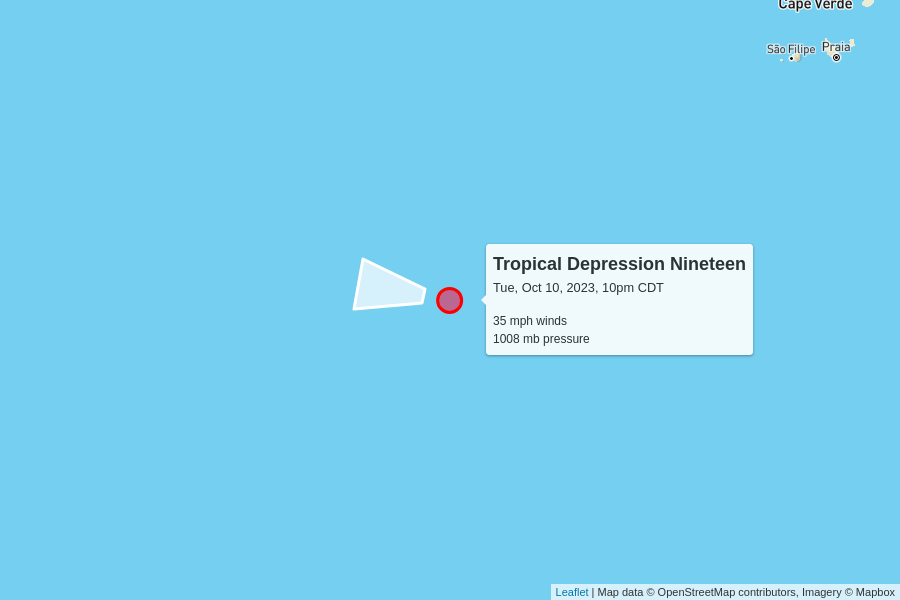
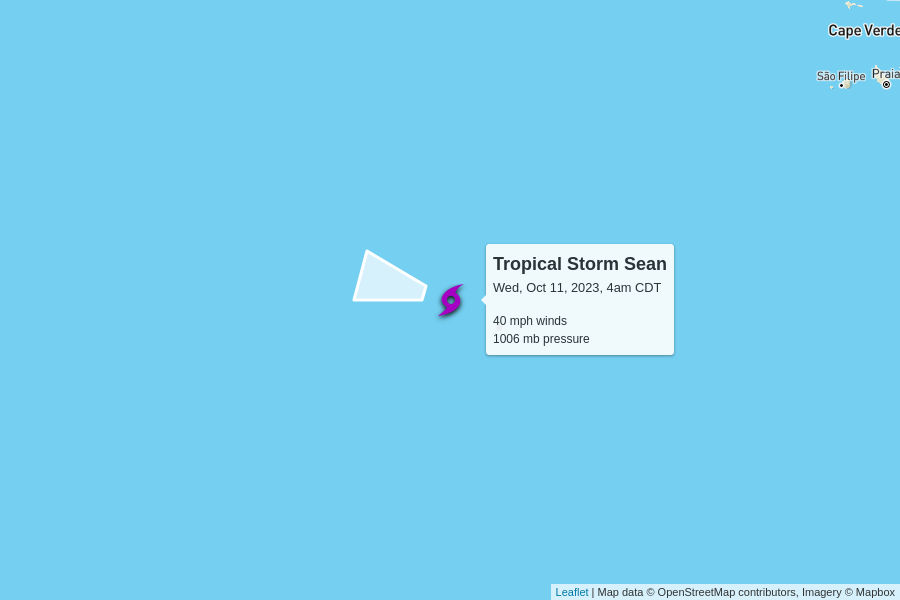
automatic update

diff --git a/docs/index.html b/docs/index.html
@@ -101,8 +101,8 @@
       <tr>
         <td colspan="6" class="storm category-0" >
           <h2>
-            Tropical Depression Nineteen
-            <p class="updated">last updated <span data-time>2023-10-11T03:00:00.000Z</span></p>
+            Tropical Storm Sean
+            <p class="updated">last updated <span data-time>2023-10-11T09:00:00.000Z</span></p>
           </h2>
         </td>
       </tr>
@@ -117,15 +117,15 @@
       </tr>
       <tr>
         <td class="spacer"></td>
-        <td>35 mph</td>
-        <td>1008 mb</td>
+        <td>40 mph<br>+5 mph since last update</td>
+        <td>1006 mb<br>-2 mb since last update</td>
         <td>
-          13 mph to the west
+          13 mph to the west-northwest
           <br/>
-          <span style="display: inline-block; font-size: 1.5em; transform: rotate(280deg);">↑</span>
+          <span style="display: inline-block; font-size: 1.5em; transform: rotate(285deg);">↑</span>
         </td>
         <td><a href="https://raw.githubusercontent.com/mgwalker/atlantic-hurricanes/main/data/csv/AL192023.csv">AL192023.csv</a></td>
-        <td><a href="https://www.nhc.noaa.gov/archive/2023/NINETEEN.shtml?">NHC advisories</a></td>
+        <td><a href="https://www.nhc.noaa.gov/archive/2023/SEAN.shtml?">NHC advisories</a></td>
       </tr>
       <tr id="storm_AL192023" >
         <td class="spacer">
